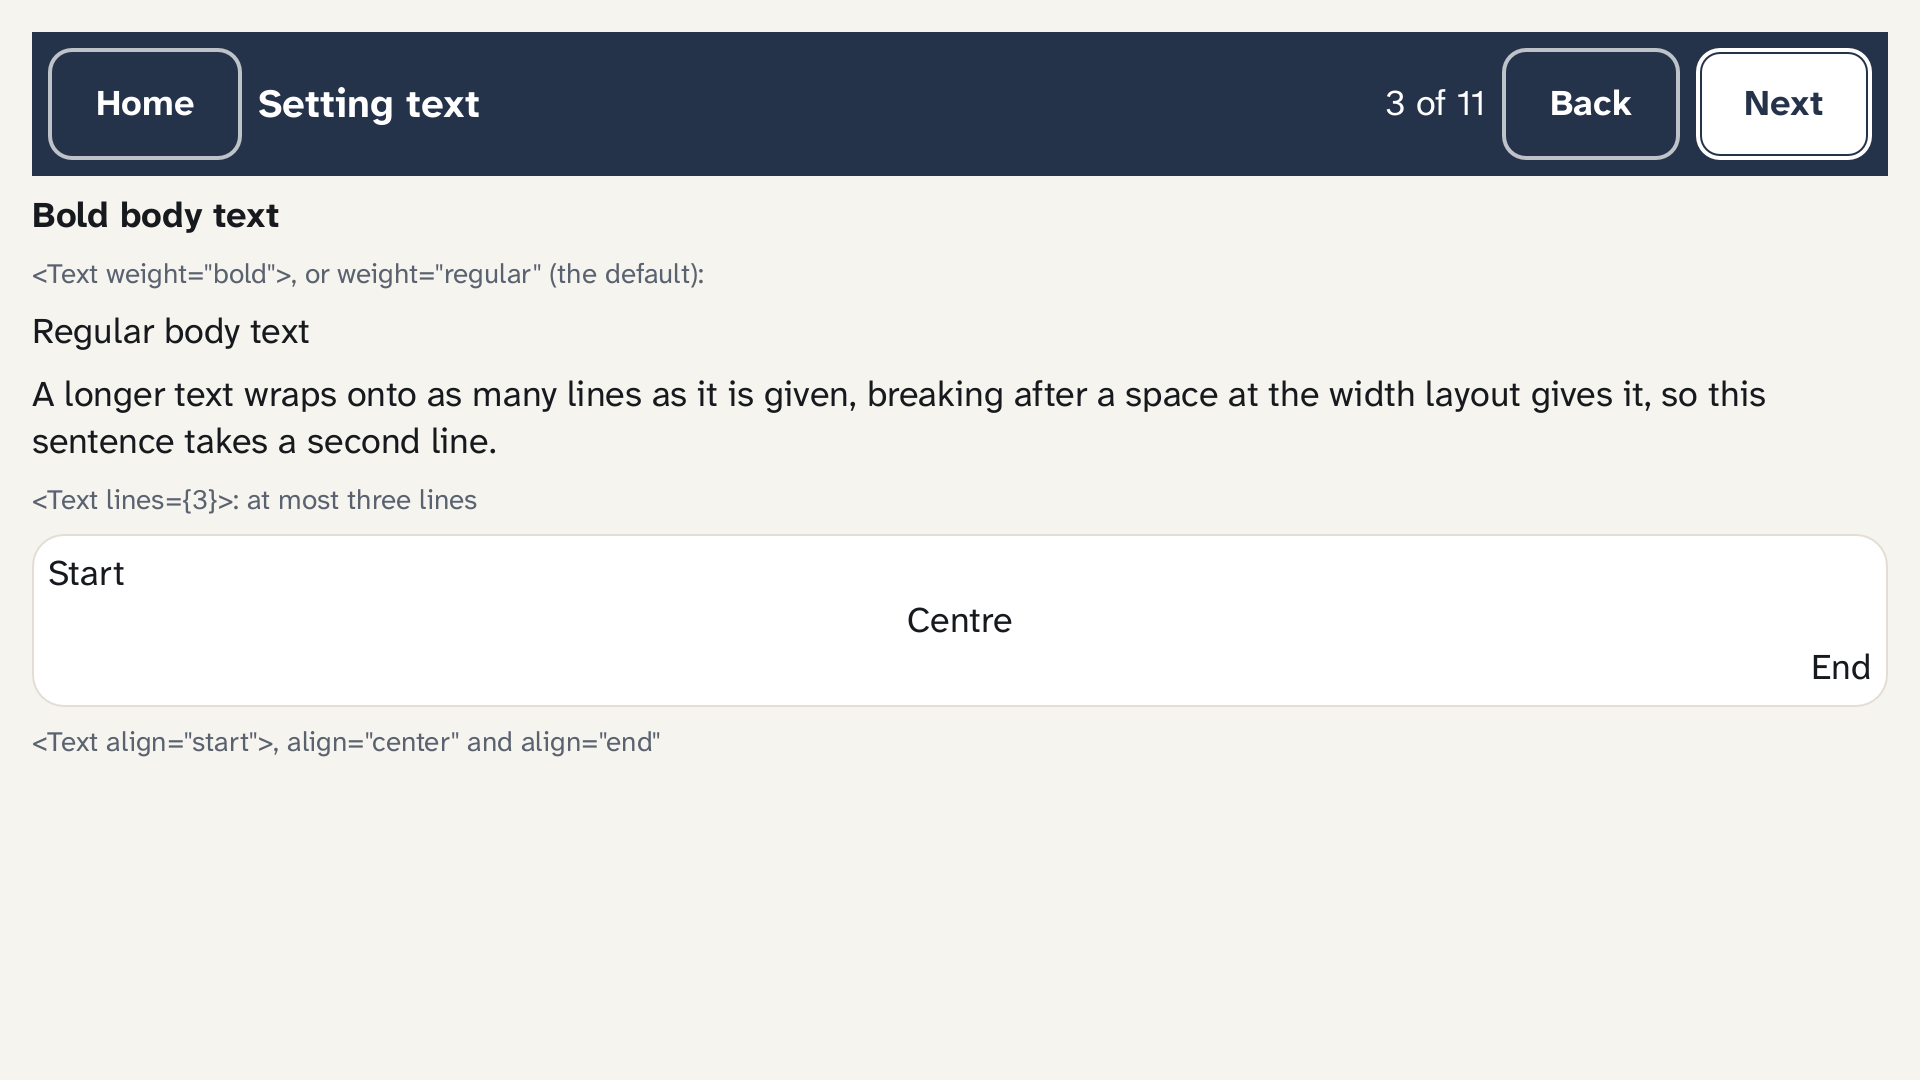
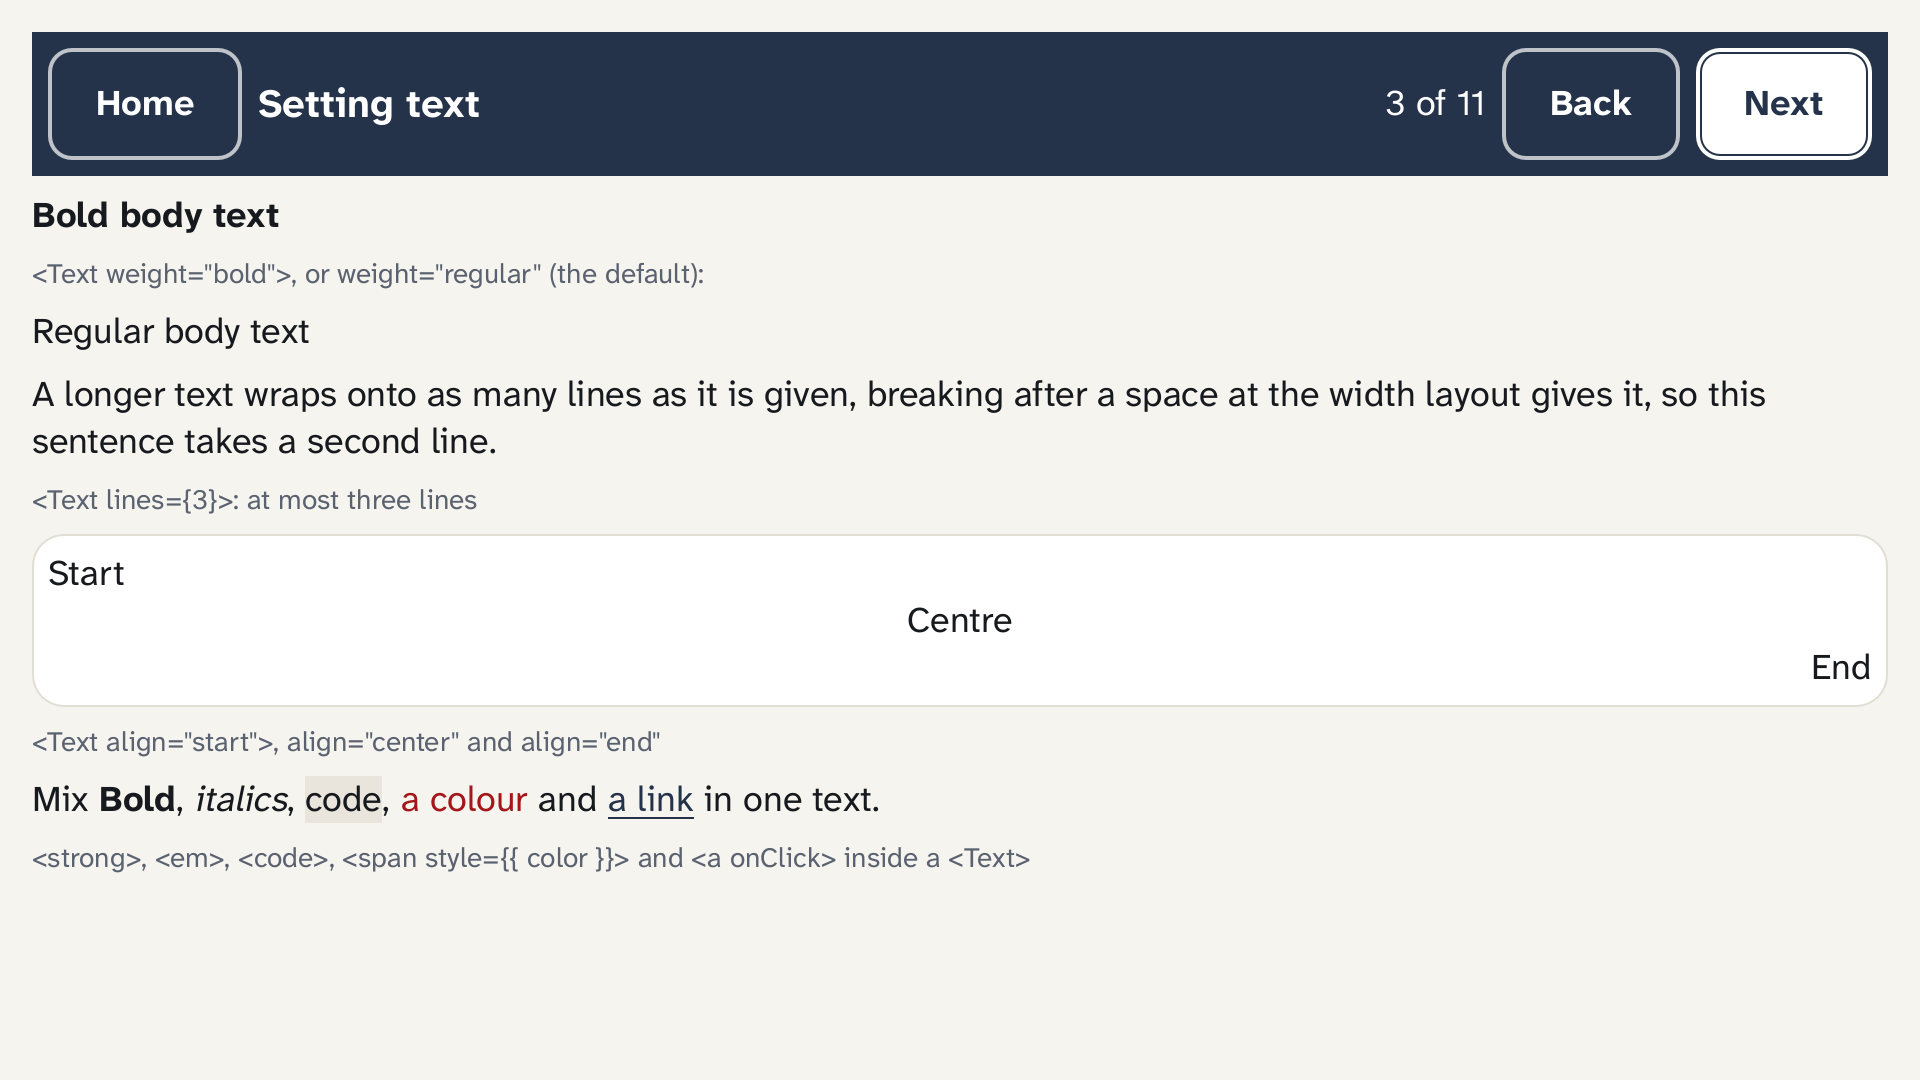
The showcase with rich text
NoWayOS de31486 (rich-text): the gallery's text screen mixes Bold, italics, code, a colour and a link; the brand themes colour links.

diff --git a/showcase/showcase-app/tsx/gallery-text.tsx b/showcase/showcase-app/tsx/gallery-text.tsx
@@ -1,4 +1,5 @@
-// The Screen Compiler gallery, 3 of 11: a text's weight, the lines it may wrap onto and where its lines sit.
+// The Screen Compiler gallery, 3 of 11: a text's weight, the lines it may wrap onto, where its lines sit,
+// and a rich text mixing Bold, italics, code, a colour and a link.
 // Each example is captioned with the TSX that made it. Written for the showcase in TSX and
 // converted at build time like every other screen here; the launcher's Screen Compiler
 // tile opens the first, and Back and Next go round them all.
@@ -12,6 +13,7 @@ type GalleryProps = {
   onHome: () => void;
   onBack: () => void;
   onNext: () => void;
+  onGuide: () => void;
 };
 
 export function GalleryTextScreen(props: GalleryProps) {
@@ -50,6 +52,11 @@ export function GalleryTextScreen(props: GalleryProps) {
           <Text align="end">End</Text>
         </Card>
         <Text role="caption">{'<Text align="start">, align="center" and align="end"'}</Text>
+        <Text>
+          Mix <strong>Bold</strong>, <em>italics</em>, <code>code</code>,{" "}
+          <span style={{ color: "error" }}>a colour</span> and <a onClick={props.onGuide}>a link</a> in one text.
+        </Text>
+        <Text role="caption">{'<strong>, <em>, <code>, <span style={{ color }}> and <a onClick> inside a <Text>'}</Text>
       </Column>
     </Screen>
   );

diff --git a/showcase/showcase-app/src/lib.rs b/showcase/showcase-app/src/lib.rs
@@ -673,6 +673,15 @@ impl UiBuilder for Shifted<'_> {
         let field = FieldId::new(self.shift(field.get()));
         UiBuilder::text_area(&mut *self.tree, field, rows, max_len, placeholder)
     }
+    /// A rich text's runs are a constant: their links' actions are not
+    /// moved, so a bar holds none.
+    fn rich_text(
+        &mut self,
+        runs: &'static [nowayos_ui::rich::Run],
+        style: TextStyle,
+    ) -> Result<NodeId, UiError> {
+        UiBuilder::rich_text(&mut *self.tree, runs, style)
+    }
     fn dialog(&mut self, layer: LayerId, child: NodeId) -> Result<NodeId, UiError> {
         let layer = LayerId::new(self.shift(layer.get()));
         UiBuilder::dialog(&mut *self.tree, layer, child)

diff --git a/showcase/showcase-app/src/brands.rs b/showcase/showcase-app/src/brands.rs
@@ -48,6 +48,7 @@ impl Brand {
             button: self.accent,
             button_pressed: self.pressed,
             focus: self.accent,
+            link: self.accent,
             surfaces: Surfaces {
                 header: self.header(),
                 ..light.surfaces
